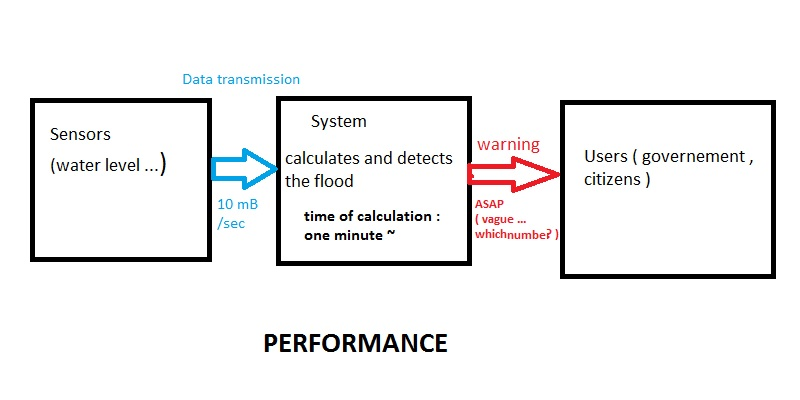
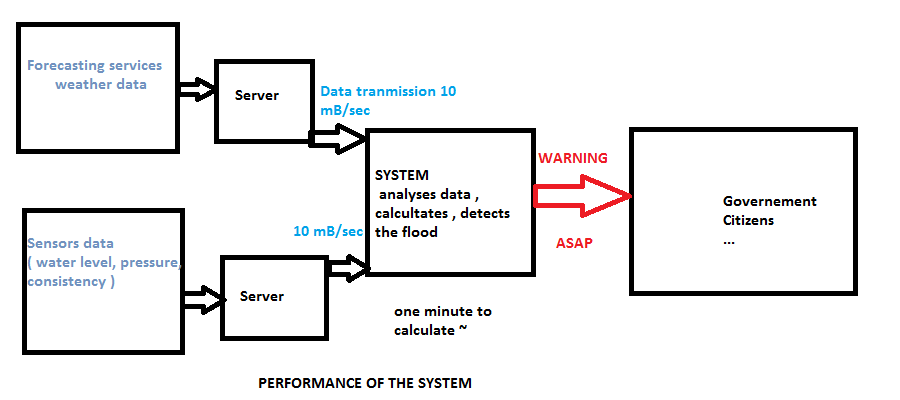
NFr

Changed region(s): [[0.0, 0.03, 0.9688, 0.9], [0.2812, 0.93, 0.5312, 0.99]]

diff --git a/3-requirements/technicalnonfunctionalreq.tex b/3-requirements/technicalnonfunctionalreq.tex
@@ -42,8 +42,7 @@ The system needs to be resilient to recover from errors and mistakes without imp
 \end{longtable}
 % GK: requirement for amount of concurrent users
 
-\todo{Static path to local image}
-%\includegraphics[scale=0.8]{C:/Users/admin/Desktop/M1/Performance.jpg}
+\includegraphics[scale=0.7]{3-requirements/Images/Performance.jpg}
 
 \subsection{Interoperability}
 % The system has dependencies on third-party systems. For example, to make predictions about the development of waterlevel, the system will need to retrieve information from water forecasting services. Not only for input, but also for output, the system will need to interoperate with third-party systems. If the system has registered a risk of a flood, it should interact with systems of emergency services and other authorities to alert them and sent relevant information.
